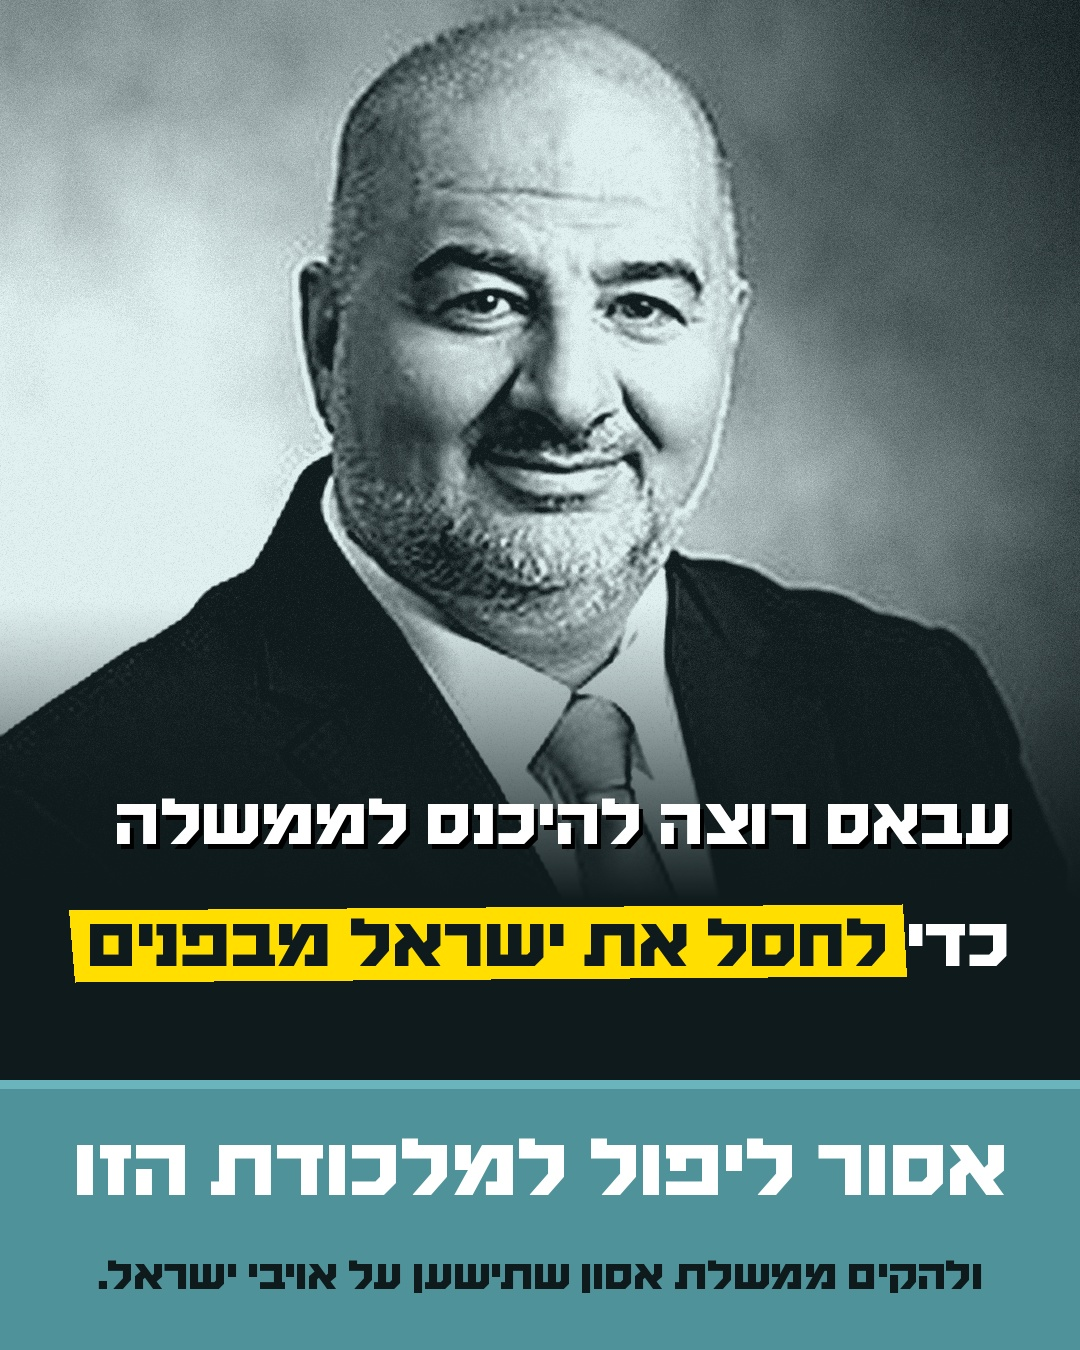
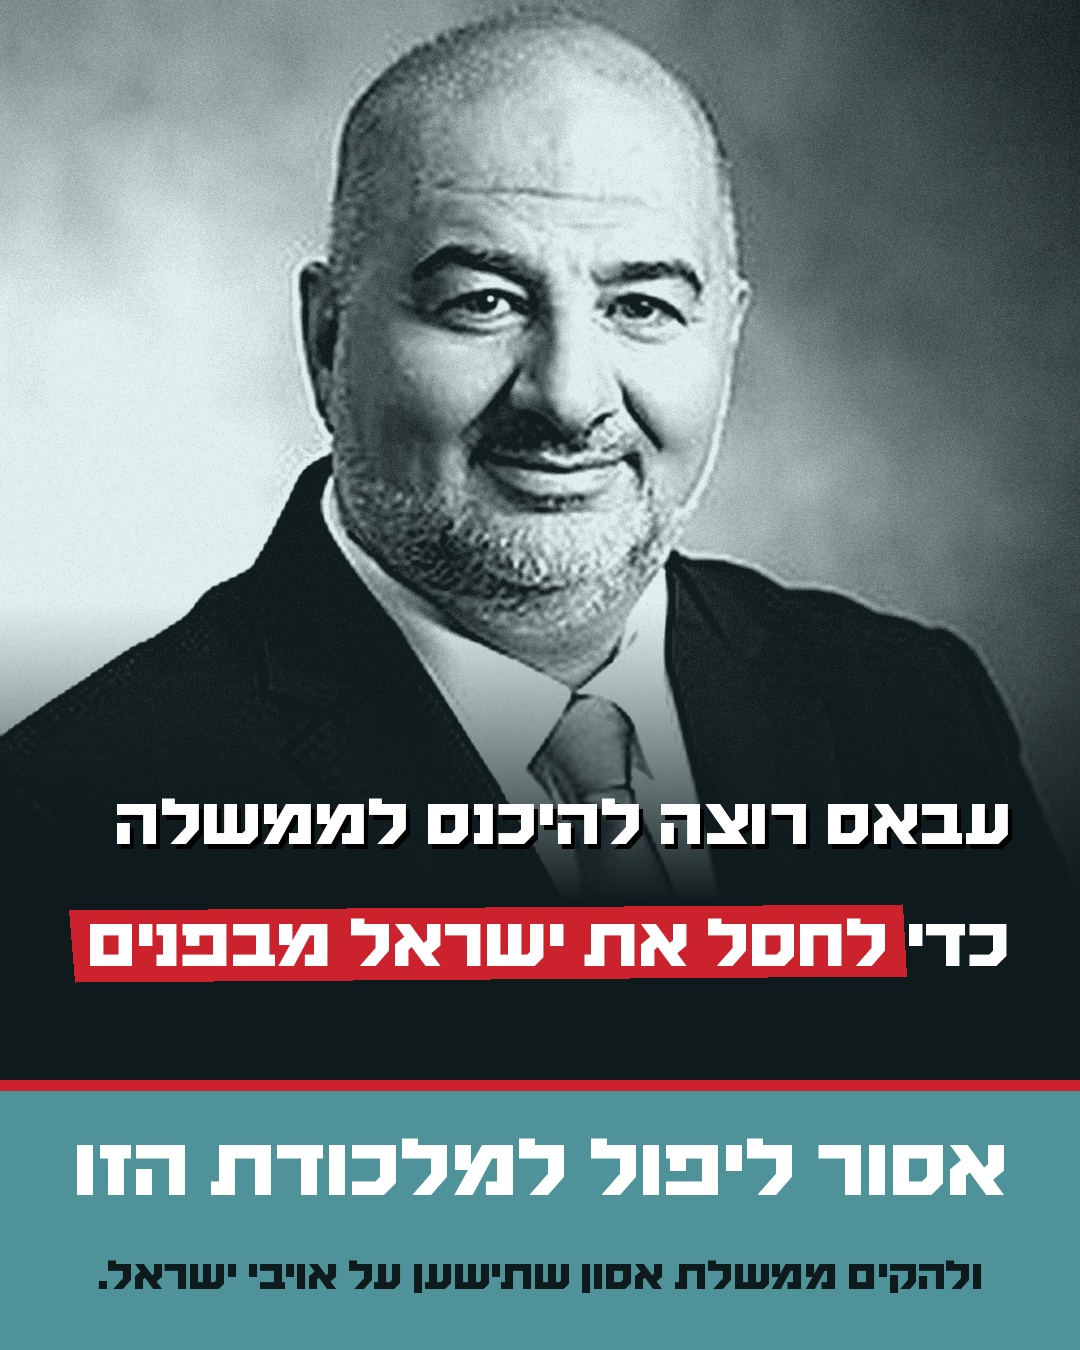
Abbas carousel: red accents
Claude-Session: https://claude.ai/code/session_01RS3QK6pAd3YhyAuXZSJjH1

Changed region(s): [[0.0611, 0.6533, 0.8556, 0.7467], [0.0, 0.7778, 1.0, 0.8089]]

diff --git a/content-kit/hatzionut-hadatit/2026-11-post-abbas-taqiyya/make_s2.py b/content-kit/hatzionut-hadatit/2026-11-post-abbas-taqiyya/make_s2.py
@@ -6,6 +6,7 @@ HERE = os.path.dirname(os.path.abspath(__file__))
 HAIM = os.path.abspath(os.path.join(HERE, '..', '..', 'fonts', 'HaimClassicv2FM-Bold.ttf'))
 W, H = 1080, 1350
 DEEP, TEAL, LT, PALE, NIGHT = (43, 81, 85), (80, 146, 153), (105, 180, 189), (173, 213, 217), (14, 26, 28)
+RED = (204, 34, 46)
 YEL = (255, 222, 0)
 def F(s): return ImageFont.truetype(HAIM, s, layout_engine=ImageFont.Layout.RAQM)
 rng = np.random.default_rng(11)
@@ -35,10 +36,10 @@ def bubble_mask():
 bm = bubble_mask()
 # underlayer: what is really underneath (Smotrich's words), visible where the sticker has peeled
 under = Image.new('RGBA', (W, H), (0, 0, 0, 0)); ud = ImageDraw.Draw(under)
-ud.rounded_rectangle((BX0, BY0, BX1, BY1), 46, fill=TEAL + (255,))
+ud.rounded_rectangle((BX0, BY0, BX1, BY1), 46, fill=RED + (255,))
 fu = F(96)
 while ud.textlength('לשקר', font=fu, direction='rtl') > 215: fu = F(fu.size - 2)
-ud.text((350, 800), 'לשקר', font=fu, fill=YEL, anchor='ra', direction='rtl')
+ud.text((350, 800), 'לשקר', font=fu, fill='white', anchor='ra', direction='rtl')
 under.putalpha(Image.fromarray(np.minimum(np.asarray(under.getchannel('A')), np.asarray(bm))))
 # sticker: white bubble with the headline wording
 stk = Image.new('RGBA', (W, H), (0, 0, 0, 0)); sd = ImageDraw.Draw(stk)
@@ -73,7 +74,12 @@ shadow = Image.new('RGBA', (W, H), (0, 0, 0, 0)); shadow.putalpha(fsh); im.alpha
 im.alpha_composite(flap_im)
 # rest of his sentence under the bubble
 d = ImageDraw.Draw(im); y = BY1 + 140
-for line, col in [('הסתרה ונכונות לשקר ולומר כל דבר', 'white'), ('שהצד השני רוצה לשמוע', 'white'), ('כדי לקבל את עמדות הכח הרצויות.', PALE)]:
-    d.text((R, y), line, font=F(54), fill=col, anchor='ra', direction='rtl'); y += 72
-d.text((70, H - 48), '←', font=F(60), fill=PALE, anchor='lm')
+fl = F(54)
+segs = [[('הסתרה ונכונות לשקר', (236, 70, 78)), ('ולומר כל דבר', 'white')], [('שהצד השני רוצה לשמוע', 'white')], [('כדי לקבל את עמדות הכח הרצויות.', PALE)]]
+for line in segs:
+    x = R
+    for txt, col in line:
+        d.text((x, y), txt, font=fl, fill=col, anchor='ra', direction='rtl'); x -= d.textlength(txt + ' ', font=fl, direction='rtl')
+    y += 72
+d.text((70, H - 48), '←', font=F(60), fill=RED, anchor='lm')
 im.convert('RGB').save(HERE + '/slide2.jpg', quality=95); print('ok')

diff --git a/content-kit/hatzionut-hadatit/2026-11-post-abbas-taqiyya/make_s1.py b/content-kit/hatzionut-hadatit/2026-11-post-abbas-taqiyya/make_s1.py
@@ -6,6 +6,7 @@ HERE = os.path.dirname(os.path.abspath(__file__))
 HAIM = os.path.abspath(os.path.join(HERE, '..', '..', 'fonts', 'HaimClassicv2FM-Bold.ttf'))
 W, H = 1080, 1350
 DEEP, TEAL, LT, PALE, NIGHT = (43, 81, 85), (80, 146, 153), (105, 180, 189), (173, 213, 217), (14, 26, 28)
+RED = (204, 34, 46)
 YEL = np.array((255, 222, 0), np.float32) / 255
 def F(s): return ImageFont.truetype(HAIM, s, layout_engine=ImageFont.Layout.RAQM)
 rng = np.random.default_rng(11)
@@ -43,7 +44,7 @@ for k, (dx, dy, wdt) in enumerate([(0, 0, 9), (6, -4, 6)]):
     for t in np.linspace(0, 2 * np.pi * 1.08, 90):
         rx, ry = 238 + 7 * np.sin(3 * t), 50 + 4 * np.cos(2 * t)
         pts.append((710 + dx + rx * np.cos(t), 490 + dy + ry * np.sin(t)))
-    cd.line(pts, fill=(214, 40, 40), width=wdt, joint='curve')
+    cd.line(pts, fill=RED, width=wdt, joint='curve')
 CW = 980; clip = clip.resize((CW, int(clip.height * CW / clip.width)), Image.LANCZOS)
 card = torn(clip, 5).rotate(-2.2, resample=Image.BICUBIC, expand=True)
 
@@ -53,7 +54,7 @@ d.text((R, 95), 'מי שיתרשם מההכרזה', font=F(76), fill='white', an
 fz = F(205); t = 'ה״דרמטית״'
 while d.textlength(t, font=fz, direction='rtl') > W - 150: fz = F(fz.size - 5)
 d.text((R + 6, 190 + 8), t, font=fz, fill=(0, 0, 0, 160), anchor='ra', direction='rtl')
-d.text((R, 190), t, font=fz, fill=LT, anchor='ra', direction='rtl')
+d.text((R, 190), t, font=fz, fill=RED, anchor='ra', direction='rtl')
 im.alpha_composite(card, ((W - card.width) // 2, 410))
 # bottom punch
 fb = F(84); t = 'פשוט לא מכיר את עבאס'
@@ -62,5 +63,5 @@ bb = d.textbbox((0, 0), t, font=fb, anchor='ls', direction='rtl'); tw, ih = bb[2
 y = 1005; d.rectangle((R - tw - 52, y, R + 6, y + ih + 50), fill=LT)
 d.text((R - 24, y + 25 - bb[1]), t, font=fb, fill=NIGHT, anchor='rs', direction='rtl')
 d.text((R, y + ih + 80), 'ואת השיטה של האחים המוסלמים', font=F(52), fill='white', anchor='ra', direction='rtl')
-d.text((70, H - 48), '←', font=F(60), fill=PALE, anchor='lm')
+d.text((70, H - 48), '←', font=F(60), fill=RED, anchor='lm')
 im.convert('RGB').save(HERE + '/slide1.jpg', quality=95); print('ok')

diff --git a/content-kit/hatzionut-hadatit/2026-11-post-abbas-taqiyya/make_s3.py b/content-kit/hatzionut-hadatit/2026-11-post-abbas-taqiyya/make_s3.py
@@ -6,6 +6,7 @@ HERE = os.path.dirname(os.path.abspath(__file__))
 HAIM = os.path.abspath(os.path.join(HERE, '..', '..', 'fonts', 'HaimClassicv2FM-Bold.ttf'))
 W, H = 1080, 1350
 DEEP, TEAL, LT, PALE, NIGHT = (43, 81, 85), (80, 146, 153), (105, 180, 189), (173, 213, 217), (14, 26, 28)
+RED = (204, 34, 46)
 YEL = (255, 222, 0)
 def F(s): return ImageFont.truetype(HAIM, s, layout_engine=ImageFont.Layout.RAQM)
 src = Image.open(HERE + '/src/abbas.jpg').convert('L')
@@ -32,11 +33,11 @@ while wa + d.textlength(b2, font=f2, direction='rtl') > W - 150: f2 = F(f2.size 
 d.text((R, y), a2, font=f2, fill='white', anchor='ra', direction='rtl')
 wb = d.textlength(b2, font=f2, direction='rtl'); xr = R - wa
 bb = d.textbbox((xr, y), b2, font=f2, anchor='ra', direction='rtl')
-d.polygon([(xr + 14, bb[1] - 14), (xr - wb - 18, bb[1] - 8), (xr - wb - 12, bb[3] + 16), (xr + 18, bb[3] + 10)], fill=YEL)   # hand-laid marker
-d.text((xr, y), b2, font=f2, fill=NIGHT, anchor='ra', direction='rtl')
+d.polygon([(xr + 14, bb[1] - 14), (xr - wb - 18, bb[1] - 8), (xr - wb - 12, bb[3] + 16), (xr + 18, bb[3] + 10)], fill=RED)   # hand-laid marker
+d.text((xr, y), b2, font=f2, fill='white', anchor='ra', direction='rtl')
 # closing stripe
 SY = 1080
-d.rectangle((0, SY, W, H), fill=TEAL); d.rectangle((0, SY, W, SY + 8), fill=LT)
+d.rectangle((0, SY, W, H), fill=TEAL); d.rectangle((0, SY, W, SY + 10), fill=RED)
 ft = F(92); t = 'אסור ליפול למלכודת הזו'
 while d.textlength(t, font=ft, direction='rtl') > W - 120: ft = F(ft.size - 3)
 d.text((W // 2, SY + 48), t, font=ft, fill='white', anchor='ma', direction='rtl')
